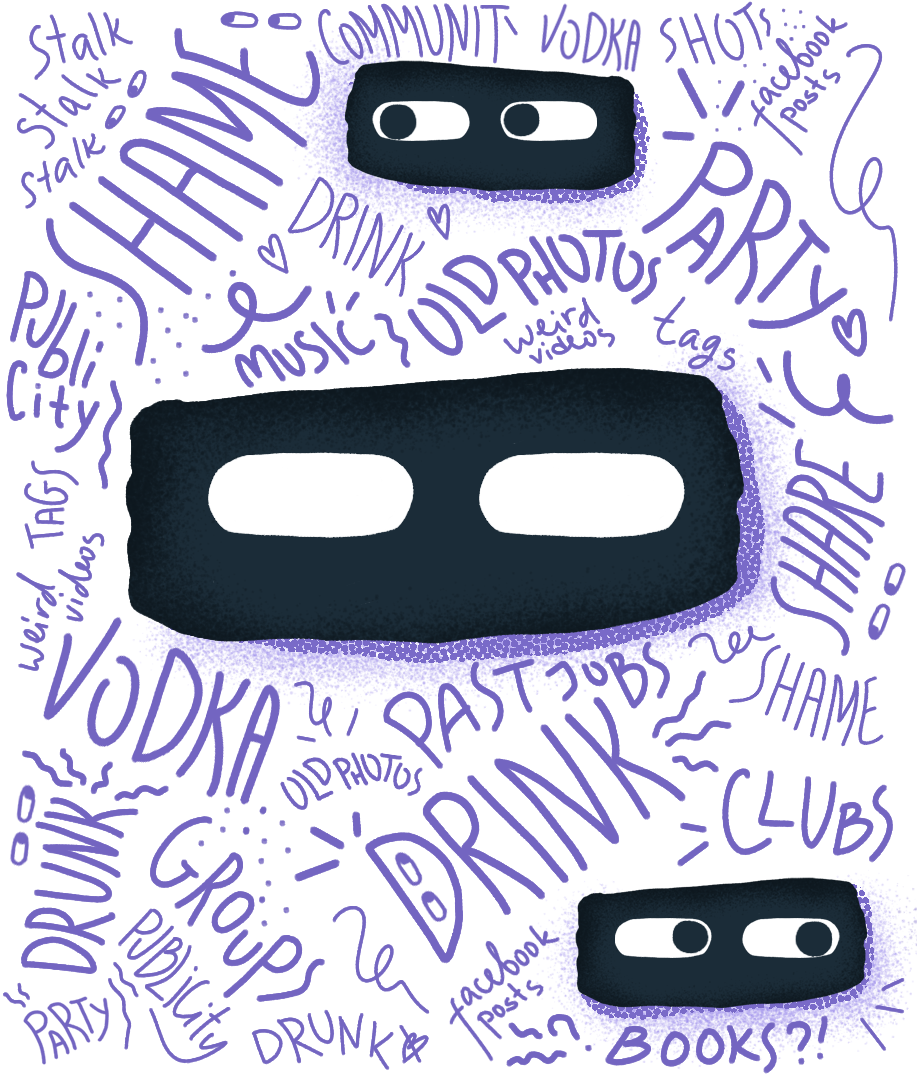
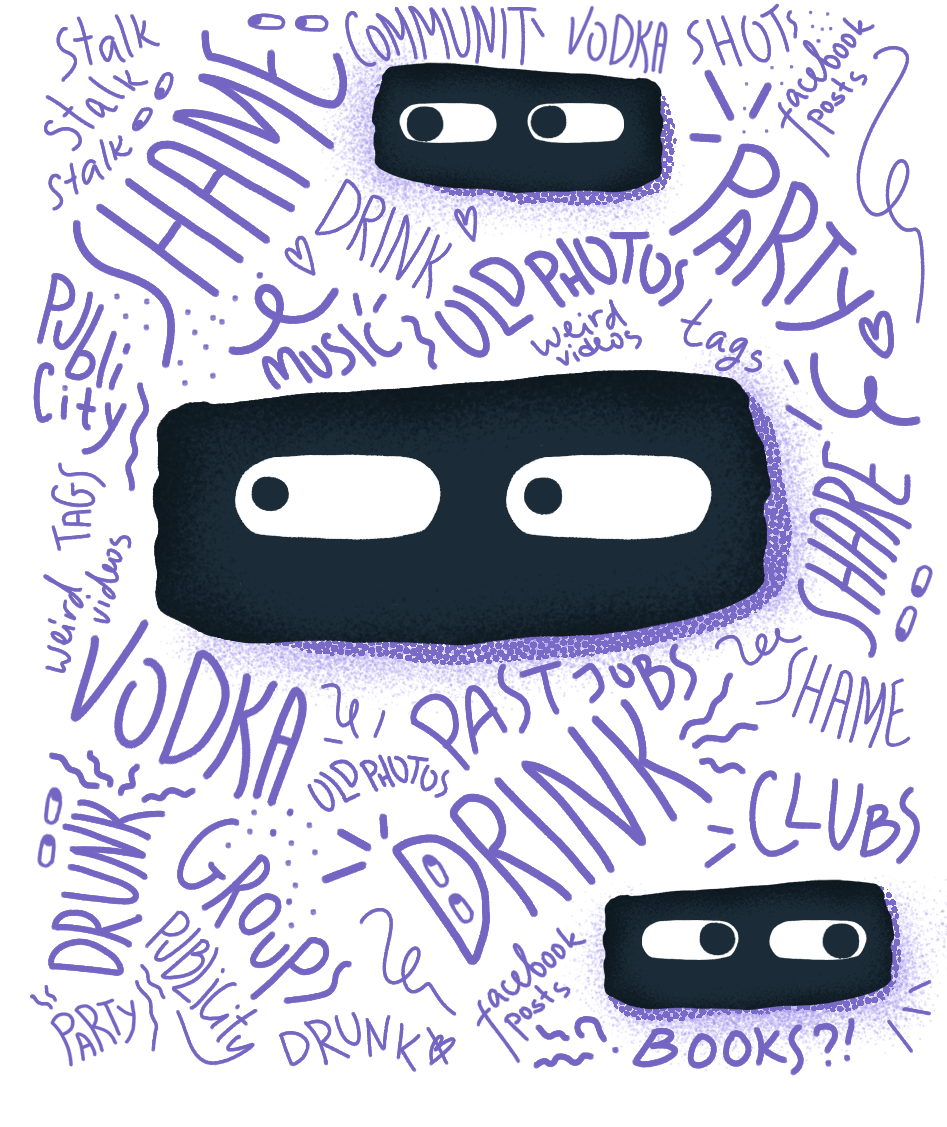
add static img

diff --git a/src/pages/recruiter-check-quiz.js b/src/pages/recruiter-check-quiz.js
@@ -6,7 +6,7 @@ import Track from "utils/Track";
 
 import logo from "../assets/img/logo.svg";
 
-const RecruiterCheckQuiz = ({ data: { metaImage, recruitersImg, recruitersMobileImg } }) => (
+const RecruiterCheckQuiz = ({ data: { metaImage, recruitersImg } }) => (
     <div className="quiz-recruiter-check">
         <Meta
          title="Quiz: Survive being Googled by recruiters!"
@@ -102,13 +102,6 @@ export const pageQuery = graphql`
             }
         }
         recruitersImg: file(relativePath: { eq: "landing-pages/recruitersImg.png" }) {
-            childImageSharp {
-                sizes(maxWidth: 2500) {
-                    ...GatsbyImageSharpSizes
-                }
-            }
-        }
-        recruitersMobileImg: file(relativePath: { eq: "landing-pages/recruitersMobileImg.png" }) {
             childImageSharp {
                 sizes(maxWidth: 2500) {
                     ...GatsbyImageSharpSizes

diff --git a/src/assets/scss/pages/recruiter-check-quiz.scss b/src/assets/scss/pages/recruiter-check-quiz.scss
@@ -28,7 +28,7 @@
                 height: 100vh;
             }
         }
-        /*
+        /* TO DO
 		.moving-eyes-container {
 			width: 50%;
 			position: absolute;
@@ -44,9 +44,22 @@
 				position: absolute;
 				top: 38%;
 				left: 28%;
+				animation: move-eyes10s infinite;
+		    	animation-delay: 1s;
 			}
 		}
-*/
+		@keyframes move-eyes {
+			0% {
+				left: 0px;
+			}
+			50% {
+				left: 200px;
+			}
+			100% {
+				left: 0px;
+			}
+		}
+		*/
         .q-right-container {
             width: 50%;
             justify-content: center;
@@ -165,7 +178,7 @@
 
             @media (max-width: $screen-xs-max) {
                 .q-mobile {
-                    padding: 40px;
+                    padding: 16px 40px;
 
                     h1 {
                         font-size: 38px;
